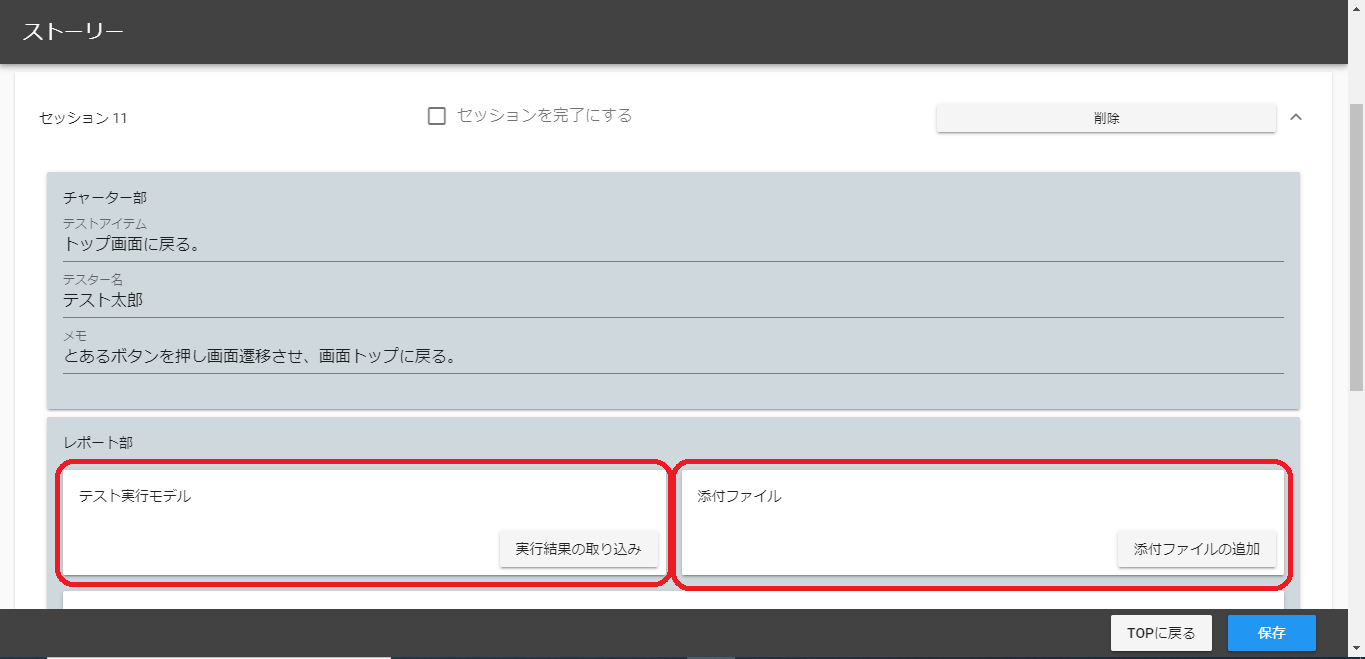
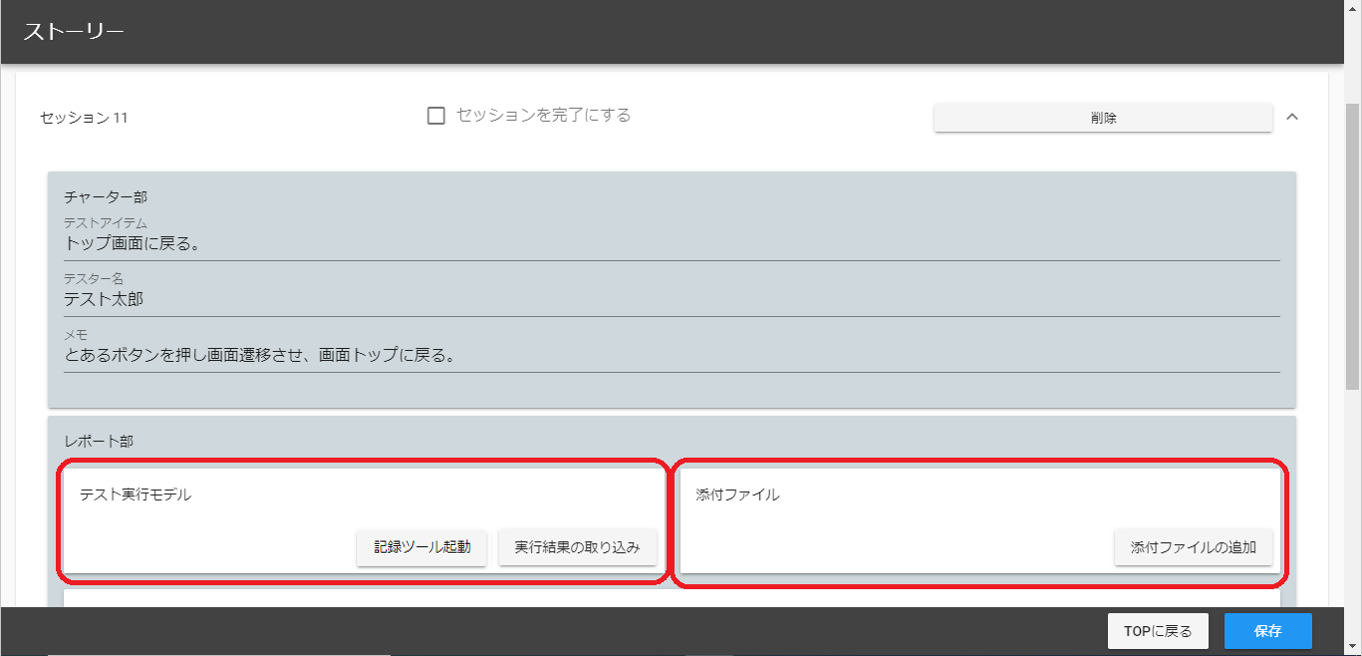
fix #36 add open capture tool method (#65)

diff --git a/src/gui/vue/pages/testManagement/storyView/organisms/SessionInfo.vue b/src/gui/vue/pages/testManagement/storyView/organisms/SessionInfo.vue
@@ -77,9 +77,18 @@
                   <li>
                     <span class="break-all">{{ file.name }}</span> ({{
                       millisecondsToHHmmss(session.testingTime)
-                    }})<v-btn
+                    }})
+                    <v-btn
+                      class="mr-0"
                       flat
-                      icon7
+                      icon
+                      v-if="!isViewerMode"
+                      @click="importTestResult(file)"
+                      ><v-icon>refresh</v-icon></v-btn
+                    >
+                    <v-btn
+                      flat
+                      icon
                       color="error"
                       v-if="!isViewerMode"
                       @click="openConfirmDialogToDeleteTestResultFile(file.id)"
@@ -91,6 +100,14 @@
 
               <v-card-actions>
                 <v-spacer></v-spacer>
+                <v-btn
+                  v-if="!isViewerMode"
+                  @click="openCaptureTool(session.testResultFiles)"
+                  id="openCaptureToolButton"
+                  >{{
+                    $store.getters.message("session-info.start-capture-tool")
+                  }}</v-btn
+                >
                 <v-btn
                   v-if="!isViewerMode"
                   @click="openTestResultSelectionDialog"
@@ -673,6 +690,32 @@ export default class SessionInfo extends Vue {
     this.issueDetailsDialogSummary = summary;
     this.issueDetailsDialogText = text;
     this.issueDetailsDialogOpened = true;
+  }
+
+  private async openCaptureTool(testResultFiles: TestResultFile[]) {
+    const origin = location.origin;
+
+    if (testResultFiles.length > 0) {
+      const testResultId = testResultFiles[0].id;
+      window.open(
+        `${origin}/capture/config/?testResultId=${testResultId}`,
+        "_blank"
+      );
+    } else {
+      await this.$store.dispatch("operationHistory/createTestResult", {
+        initialUrl: "",
+        name: "",
+      });
+
+      const newTestResult = this.$store.state.operationHistory.testResultInfo;
+
+      this.importTestResult(newTestResult);
+
+      window.open(
+        `${origin}/capture/config/?testResultId=${newTestResult.id}`,
+        "_blank"
+      );
+    }
   }
 }
 </script>

diff --git a/src/gui/vue/pages/captureControl/configView/ConfigView.vue b/src/gui/vue/pages/captureControl/configView/ConfigView.vue
@@ -166,6 +166,22 @@ export default class ConfigView extends Vue {
   private created() {
     this.updateWindowTitle();
     this.selectPlatform(this.selectedPlatformName);
+
+    const testResultId = this.$route.query.testResultId as string;
+
+    if (testResultId) {
+      (async () => {
+        try {
+          await this.$store.dispatch("operationHistory/resume", {
+            testResultId,
+          });
+        } catch (error) {
+          console.error(error);
+          this.errorMessageDialogOpened = true;
+          this.errorMessage = error.message;
+        }
+      })();
+    }
   }
 
   private get coverageOpened() {

diff --git a/src/gui/store/operationHistory/actions.ts b/src/gui/store/operationHistory/actions.ts
@@ -1210,9 +1210,10 @@ const actions: ActionTree<OperationHistoryState, RootState> = {
     context,
     payload: { initialUrl: string; name: string }
   ) {
+    const initialUrl = payload.initialUrl ? payload.initialUrl : undefined;
     const name = payload.name ? payload.name : undefined;
     const reply = await context.rootState.repositoryServiceDispatcher.createEmptyTestResult(
-      payload.initialUrl,
+      initialUrl,
       name
     );
 

diff --git a/src/gui/lib/eventDispatcher/RepositoryServiceDispatcher.ts b/src/gui/lib/eventDispatcher/RepositoryServiceDispatcher.ts
@@ -317,7 +317,7 @@ export default class RepositoryServiceDispatcher
    * @returns  Created test result information.
    */
   public async createEmptyTestResult(
-    initialUrl: string,
+    initialUrl?: string,
     name?: string
   ): Promise<Reply<{ id: string; name: string }>> {
     try {

diff --git a/src/gui/lib/common/util.ts b/src/gui/lib/common/util.ts
@@ -68,7 +68,7 @@ export const calculateElapsedUnixTime = (
     let seq = history.length - 1;
     while (!endTime) {
       if (seq <= 0) {
-        endTime = 0;
+        endTime = startEpochMilliseconds;
         break;
       }
       const lastHistory = history[seq--];

diff --git a/docs/manual/management/manual-management.md b/docs/manual/management/manual-management.md
@@ -317,13 +317,15 @@ OK ボタンを押下し、データがエクスポートされます。
 
 <img src="images/report.png" />
 
-テスト結果の読み込み、テスト証跡等のファイルの添付や、テスト実施者が実際に挙げた気づきをバグトラッキングシステム等に起票するか選択することができます。
-
-:warning: LatteArt 自身にはバグトラッキング機能/バグトラッキングシステムとの連携機能はありません。
+記録ツールの起動、テスト結果の読み込み、テスト証跡等のファイルの添付や、テスト実施者が実際に挙げた気づきを一覧で確認することができます。
 
 - テスト実行モデル
+  - 記録ツールを管理ツールから起動することができます。
+    - テスト結果が読み込まれていない場合は新規でテスト結果が作成され、読み込まれている場合は、読み込まれているテスト結果が記録ツールを起動した際に表示されます。
   - 記録ツールで記録されたテスト結果を読み込むことができます。
   - 読み込んだテスト結果は「[レビュー画面](#レビュー画面)」で詳細を確認することができます。
+  - 読み込んだテスト結果は再読込アイコンのボタンから再読込することができます。
+  - 読み込んだテスト結果はゴミ箱アイコンのボタンから削除することができます。
 - 添付ファイル
   - 任意のファイルを添付することができます。テスト証跡等を添付したい場合に使用してください。
   - 添付したファイルはゴミ箱アイコンのボタンから削除することができます。
@@ -331,7 +333,6 @@ OK ボタンを押下し、データがエクスポートされます。
   - 読み込んだテスト結果内に記録されている「テスト目的」が表示されます。
 - テスト中の気づき
   - 読み込んだテスト結果内に記録されている「気づき」が表示されます。
-  - 各気づきは「起票状態」欄でバグトラッキングシステム等に起票するかを選択することができ、「バグ票番号」でその際バグ番号を指定することができます。
   - 各気づきの「詳細」ボタンを押下すると詳細情報を確認することができます。
 
 # レビュー画面
